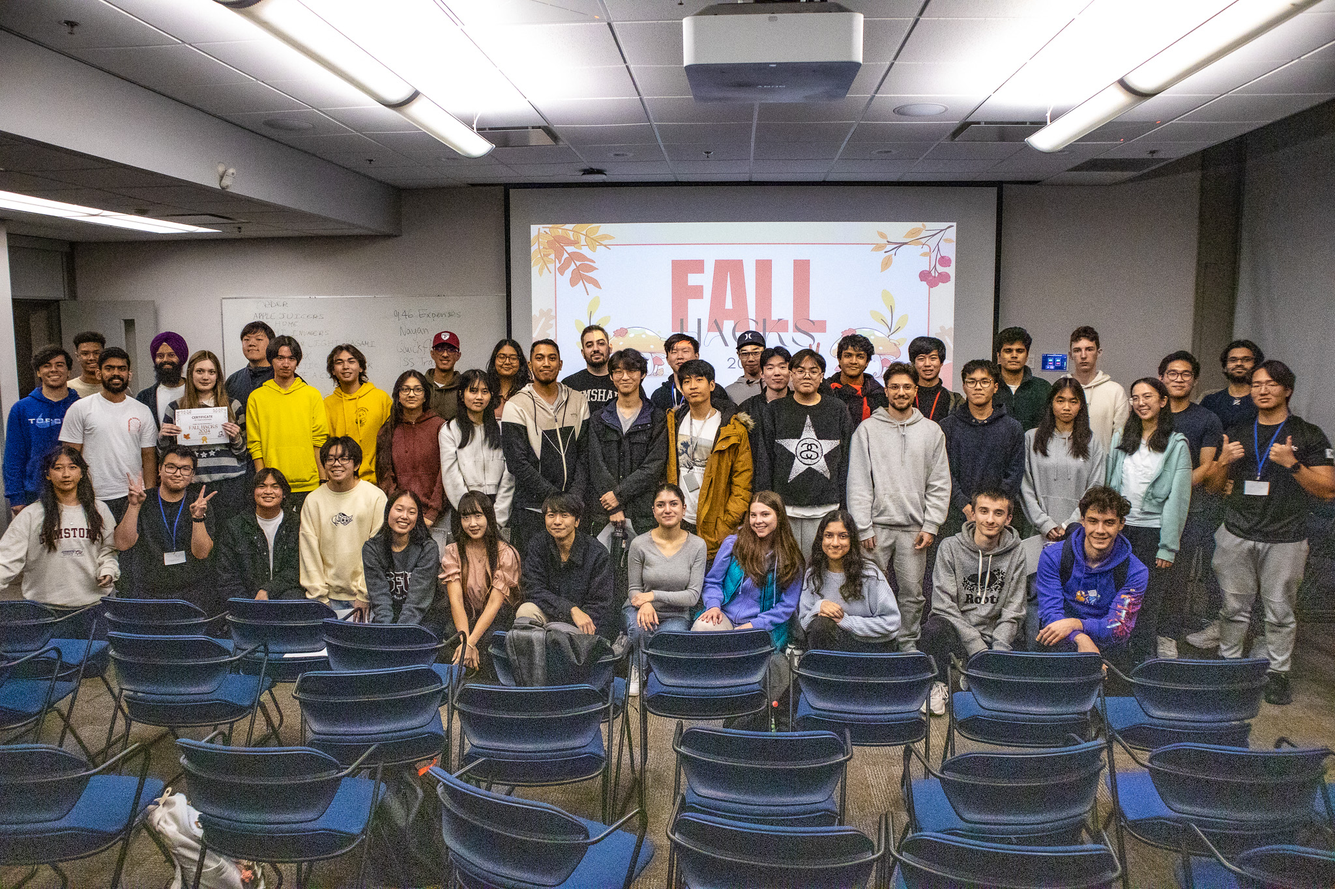
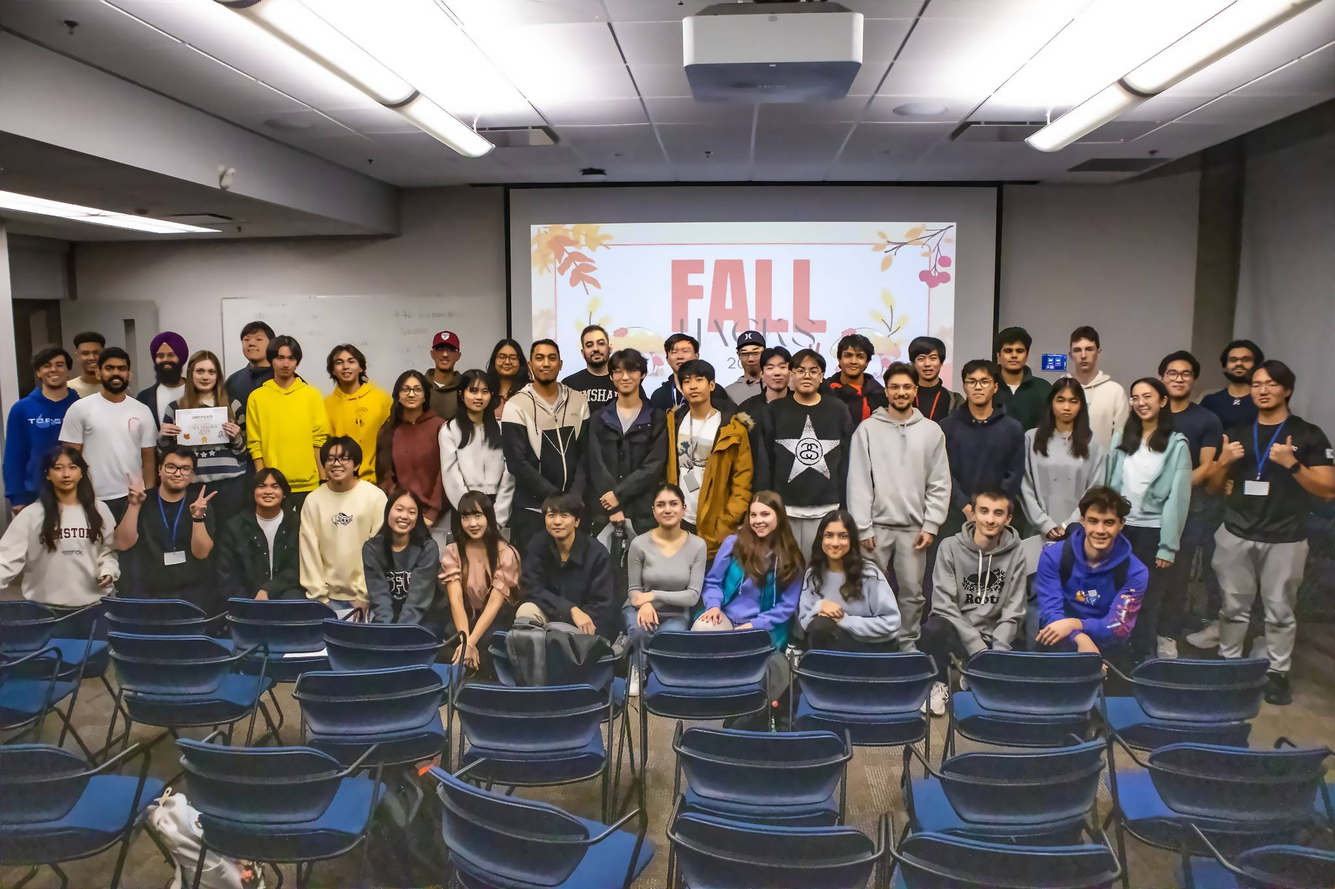
Fix(Fall Hacks 2025): Grainy images (#207)
* Fixed some grainy images
* Adjusted the image aspect ratios

Changed region(s): [[0.0, 0.3692, 1.0, 1.0], [0.4062, 0.2462, 0.4688, 0.3077], [0.6875, 0.2769, 0.7188, 0.3077]]

diff --git a/public/fall-hacks/2025/style.css b/public/fall-hacks/2025/style.css
@@ -46,7 +46,7 @@ s {
 
 img {
   width: 100%;
-  aspect-ratio: 1.33 / 1;
+  aspect-ratio: 1.5 / 1;
   object-fit: cover;
   border: 1px solid gray;
   flex: 0 1 auto;
